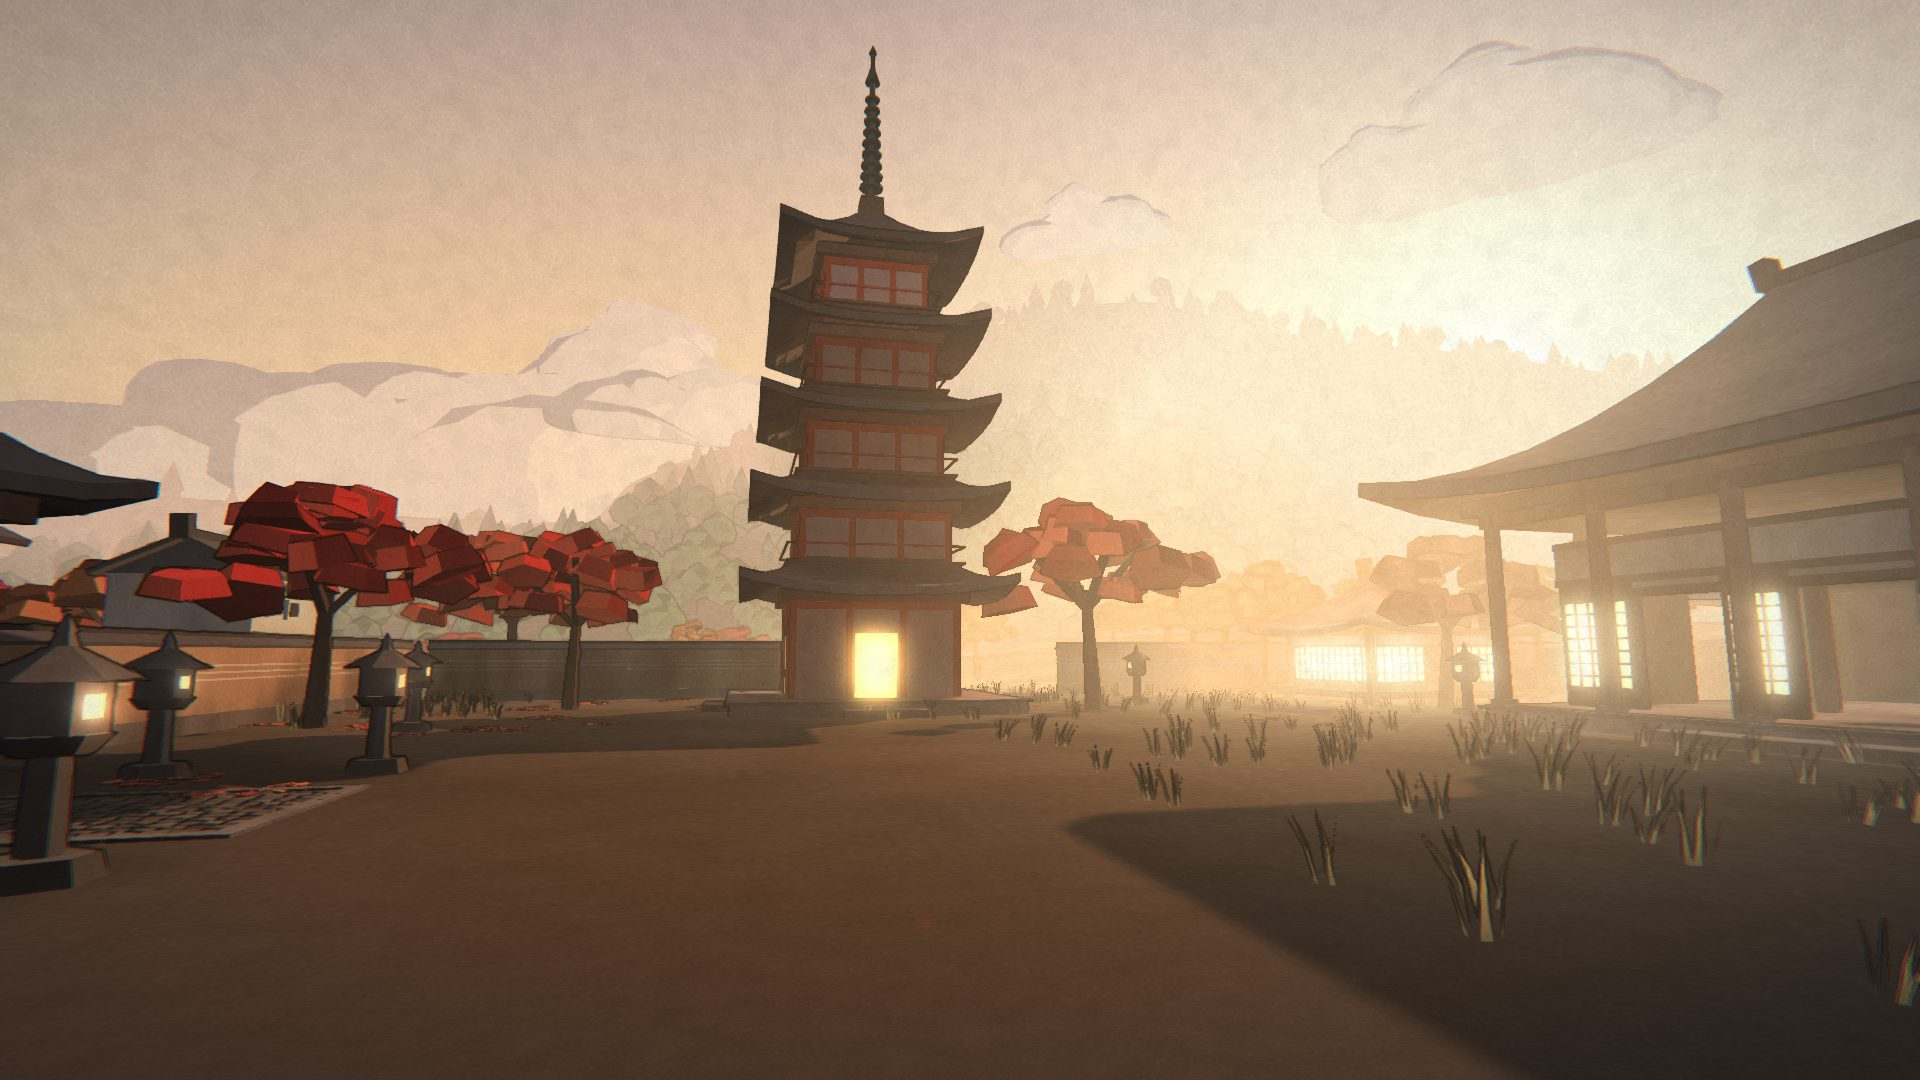
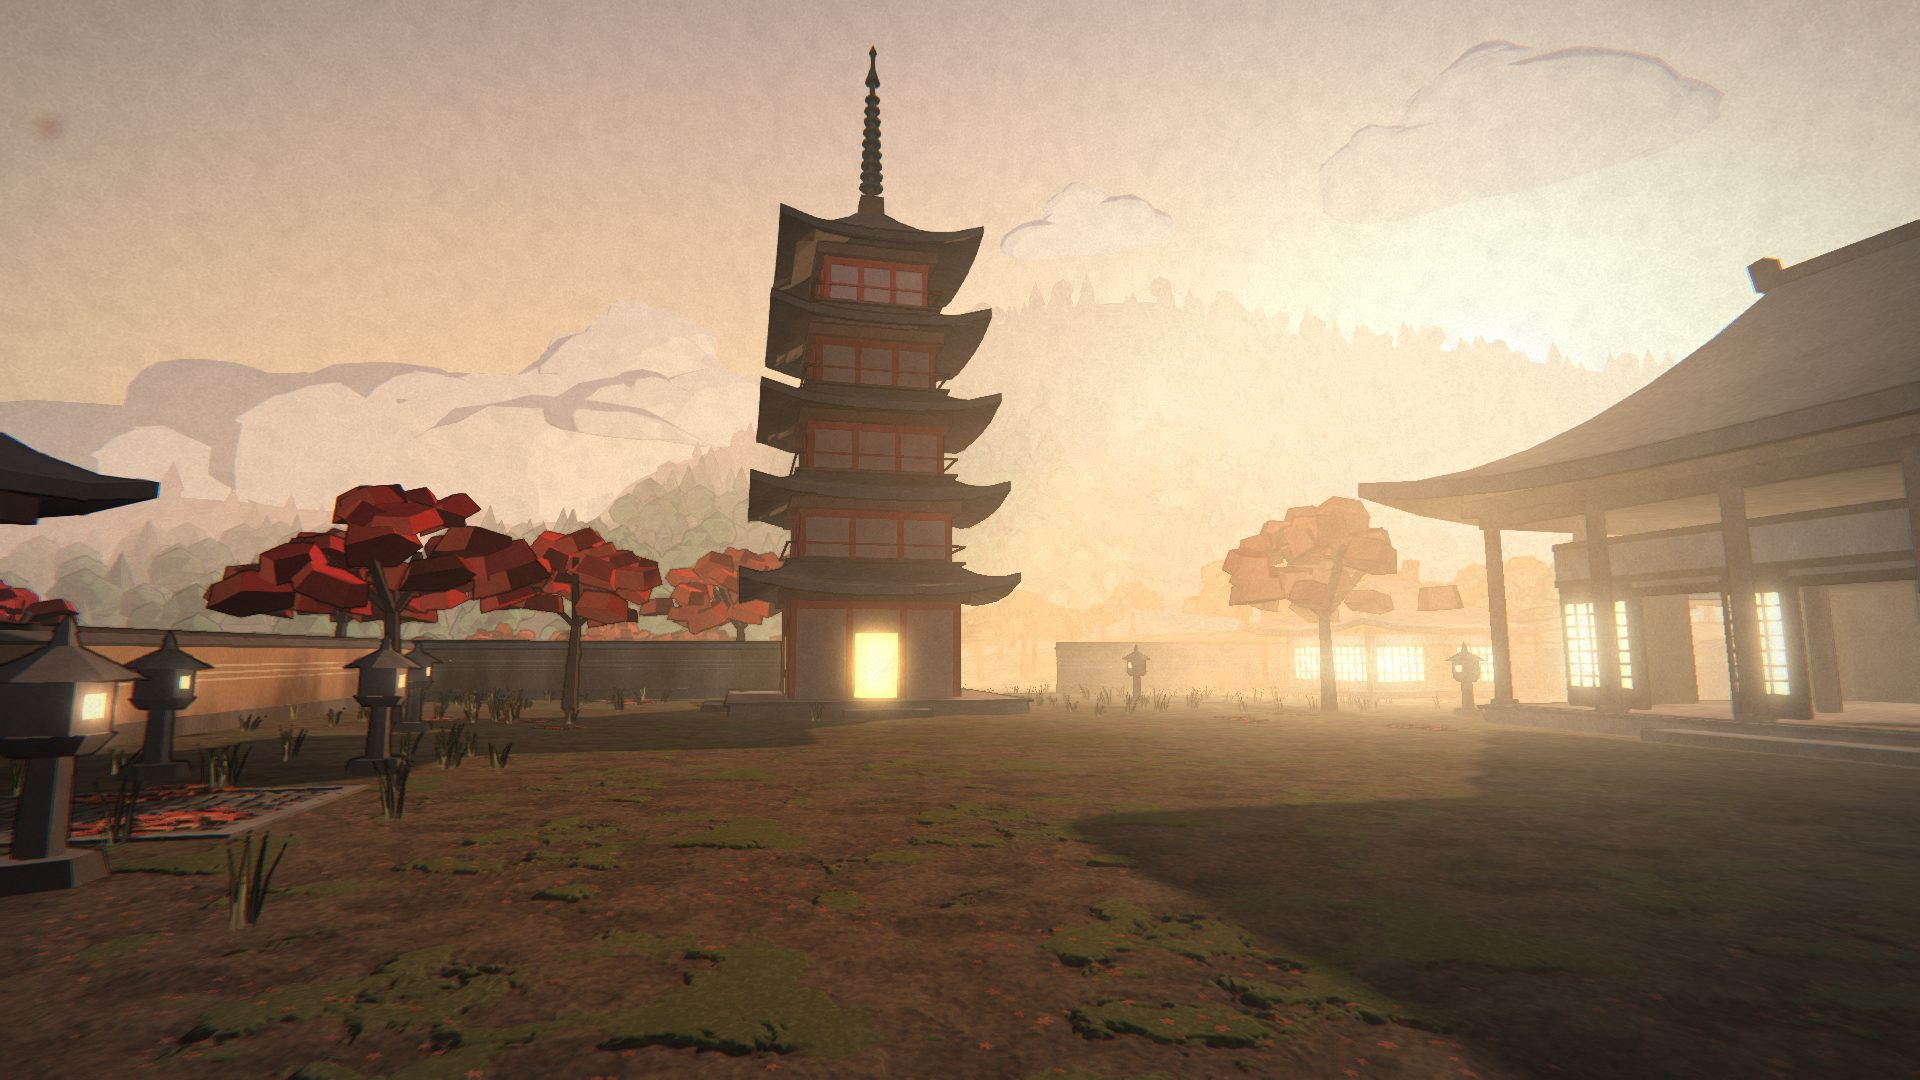
KURENAI'S GROUND IS FOREST LOAM: ROUNDED MOUNDS OF EARTH, MOSS PILLOWED OVER THE HOLLOWS AND LAST WEEK'S LEAVES GONE TO RUST IN DRIFTS, CARVED DEEP ENOUGH FOR THE PARALLAX AND THE RELIEF'S OWN SHADOW TO FIND. It was `flat` because every pattern in the roster carved plates that read as a cracked pan 
`loam` is a fifth floor pattern with no cell field in the soil at all: spread fBm bent by a smoothstep, so a crest is a rounded shoulder and a hollow a rounded dish — a steep-bottomed curve made every noise minimum a narrow pit the self-shadow filled black. Its ladder is three ladders end to end (five soil, two moss, two litter), each derived from the map's own `floorColor`, and `inBand` keeps a texel's grain inside its band. `bumpScale` 0.08 over a 5.5 m tile; at 0.025 the relief was a centimetre and read as painted. The menu photograph is re-taken.

Claude-Session: https://claude.ai/code/session_01LVphpSRXUvaM9HtyhSGMbb

diff --git a/src/world/textures.ts b/src/world/textures.ts
@@ -366,6 +366,31 @@ function shadeRgb(hex: string, mul: number, warm = 0): Rgb {
 }
 
 /**
+ * A tone derived from a base colour by scaling each channel on its own, then
+ * the whole by `mul`. `shadeRgb`'s warm axis trades red against blue and
+ * leaves green alone, which reaches rust and slate but never OLIVE — and a
+ * surface whose ladder has to hold moss as well as soil needs the green
+ * channel moved.
+ */
+function tintRgb(hex: string, mul: number, [kr, kg, kb]: Rgb): Rgb {
+  const [r, g, b] = rgbOf(hex);
+  const c = (v: number) => Math.round(Math.min(255, Math.max(0, v)));
+  return [c(r * kr * mul), c(g * kg * mul), c(b * kb * mul)];
+}
+
+/**
+ * A tone placed inside one BAND of a ladder that is several ladders laid end
+ * to end: `t` (0..1) picks a level among `count` starting at `first`, of
+ * `total` in the whole palette. What `paintAlbedo` does with it is exactly
+ * `first + floor(t * count)`, so a texel given a band can never posterize
+ * into its neighbour's — the grain that stipples a band's own boundaries
+ * stays inside it.
+ */
+function inBand(t: number, first: number, count: number, total: number): number {
+  return (first + clamp01(t) * count * 0.999) / total;
+}
+
+/**
  * The posterized ladder a tone field is quantized onto: `levels` flat tones
  * running from `lo` to `hi` times the base colour, warming (or cooling) as
  * they lighten.
@@ -586,7 +611,7 @@ export type RoadPatternId = Exclude<RoadSurface, "cobble">;
 interface RoadPattern {
   /**
    * Metres spanned by one texture repeat. Both are deliberately unequal to
-   * every floor pattern's (`floorSurfaces.ts`: 2.5, 4, 4.5 and 5) so a road can
+   * every floor pattern's (`floorSurfaces.ts`: 2.5, 4, 4.5, 5 and 5.5) so a road can
    * never come into phase with the ground it is lying on.
    */
   metersPerTile: number;
@@ -1156,6 +1181,182 @@ const FIELDS = {
     }
     return field;
   },
+
+  /**
+   * A woodland floor under maples: soft earth, moss in the damp, and the
+   * leaves that fell last week gone to rust in drifts across it.
+   *
+   * **There is no cell field in the SOIL, and that is the surface.** `dirt`
+   * is ground that has dried and pulled apart into plates, and under a low
+   * sun those plates are what a player sees — a cracked pan, which is not
+   * what the ground under a canopy is. Earth that is shaded, damp and
+   * covered every autumn stays soft: its relief is smooth undulation with a
+   * fine crumb over it, and nothing in it has an edge.
+   *
+   * **The ladder is three ladders end to end** (`inBand`): five levels of
+   * soil, two of moss, two of litter, each derived from the map's own
+   * `floorColor` — a surface still owns no colour, only which way each of its
+   * three materials moves away from the one it is given. So the tone written
+   * here is a band first and a level inside it second.
+   *
+   * The tile is 5.5 m, so the scales below read against ~1.07 cm per texel.
+   */
+  loam: (): Field => {
+    const field = blankField();
+    const { tone, height } = field;
+    const warpU = lattice(8, 0x10a1);
+    const warpV = lattice(8, 0x10a2);
+    // The undulation: six cells over the tile is a ~90 cm swell, three
+    // octaves down to ~23 cm. Plain fBm, not folded — folding is what creases
+    // soil into crumb with a groove round every lump, and this has none.
+    const swell = octaves(0x10a3, 3, 6);
+    // The CLODS: twelve cells over the tile, three octaves, lands them at 46,
+    // 23 and 11 cm — turned earth that has settled, which is the relief this
+    // surface is carved from. See where it is shaped, below, for why these
+    // are mounds and not plates.
+    const clods = octaves(0x10aa, 3, 12);
+    // The crumb over it, folded and quiet: 11 and 6 cm.
+    const crumb = octaves(0x10a4, 2, 48);
+    // Grain for the stipple, 4 and 2 cm.
+    const grit = octaves(0x10a5, 2, 128);
+    // Where the moss is: a ~80 cm field, so a cushion is a patch at the
+    // player's feet and a mottle across a court. At 1.4 m the cushions were
+    // a scatter of same-sized spots that advertised the tile from anywhere
+    // further than ten metres off: a tile cannot carry a feature much past a
+    // sixth of itself on open ground.
+    const mossField = octaves(0x10a6, 3, 7);
+    // The moss's own nap, 3 and 1.5 cm — velvet rather than crumb.
+    const nap = octaves(0x10a7, 2, 180);
+    // Leaves — the one place this file draws a SHAPE on purpose, because a
+    // leaf is an object and is meant to be read as one; the no-silhouettes
+    // rule is about soil that came back as pancakes, not about litter.
+    // Forty cells over the tile is a 14 cm cell, and a leaf fills
+    // most of one: a maple leaf is 8–12 cm across, and at this tile that is
+    // ~20 texels, which is enough for the five lobes to survive filtering at
+    // the player's feet. The jitter is held under 1 so neighbouring sites keep
+    // their distance and a leaf is not clipped by the next cell's border more
+    // than an overlap would clip it anyway.
+    const leaves = cells(40, 0x10a8, 0.7);
+    // Where they have DRIFTED: leaves on a floor are wind-sorted into
+    // windrows and pockets, and an even scatter is the one arrangement no
+    // autumn produces — the argument `dirt` makes about its grit.
+    const drift = octaves(0x10a9, 2, 5);
+
+    for (let y = 0; y < SIZE; y++) {
+      const v = y / SIZE;
+      for (let x = 0; x < SIZE; x++) {
+        const u = x / SIZE;
+        const i = y * SIZE + x;
+
+        const wu = u + (latticeAt(warpU, u, v) - 0.5) * 0.05;
+        const wv = v + (latticeAt(warpV, u, v) - 0.5) * 0.05;
+
+        const soft = spread(fbmAt(swell, wu, wv), 1.5);
+        const lump = billowAt(crumb, wu, wv);
+        const g = fbmAt(grit, u, v);
+
+        // **The soil is MOUNDS, and their shape is the whole difference from
+        // `dirt`.** A clod field is gently spread fBm bent by a smoothstep,
+        // which has no slope at EITHER end: a crest is a rounded shoulder and
+        // a hollow is a rounded dish between two of them — lumps a low sun
+        // lights on one side and shades on the other, with nothing in it that
+        // runs on as a groove. `dirt` gets the same read out of tilted PLATES,
+        // and a plate has an edge; a mound does not, which is what keeps this
+        // earth rather than a dried pan.
+        //
+        // **The dish is load-bearing.** Bent by `1 - (1 - m)^2` instead —
+        // round on top, steep at the bottom — and spread hard enough to clamp,
+        // every minimum of the noise became a narrow flat-floored pit, and the
+        // relief's own shadow and cavity filled each one black: a lawn of
+        // holes. A hollow may be deep; it may not be narrow at the bottom.
+        //
+        // The range is spent deliberately all the same. The relief is carved
+        // as a DEPTH (`CONFIG.graphics.relief`), so a field held in a narrow
+        // band in the middle — which this first was — is a centimetre of
+        // parallax at any `bumpScale`: the crests here reach ~0.85, the moss's
+        // crowns above them ~0.9, and the hollows bottom out near 0.3.
+        const m = spread(fbmAt(clods, wu, wv), 1.45);
+        const mound = m * m * (3 - 2 * m);
+        const bed = 0.3 + mound * 0.52 + (soft - 0.5) * 0.12;
+        let h = bed + (lump - 0.5) * 0.09 + (g - 0.5) * 0.04;
+
+        // MOSS holds the damp, so it favours the hollows: the mask is biased
+        // by how low the swell is. Its edge is dithered by the grain, which is
+        // what turns the band boundary into a stipple rather than a contour.
+        // The crumb frays the edge, so no two cushions share a silhouette.
+        const damp =
+          fbmAt(mossField, wu, wv) + (0.5 - soft) * 0.22 + (lump - 0.5) * 0.14;
+        const mossy = damp + (g - 0.5) * 0.06 > 0.6;
+        // The cushion rises softly over its last few centimetres rather than
+        // standing up as a step, which carved would read as a kerb.
+        //
+        // A cushion is a PILLOW over the clods rather than a coat on them: it
+        // fills the hollows and rounds over the crests, crowning just over the
+        // highest soil so the moss is the top of the relief wherever it grows
+        // and its edge is a soft shoulder the self-shadow can find.
+        const cushion = smoothstep(0.55, 0.68, damp);
+        const velvet = fbmAt(nap, u, v);
+        const pillow = Math.max(
+          0.8 + (soft - 0.5) * 0.14 + (velvet - 0.5) * 0.06,
+          bed + 0.06,
+        );
+        h = h * (1 - cushion) + pillow * cushion;
+
+        // A LEAF: a five-lobed star about its site, turned by its own roll.
+        // Only a share of the cells carry one, set by the drift — a quarter in
+        // a windrow, almost none on the open floor.
+        cellsAt(leaves, u, v, hitB);
+        const drifted = smoothstep(0.42, 0.7, fbmAt(drift, u, v));
+        const keep = 0.996 - drifted * 0.24;
+        let leaf = 0;
+        let leafLevel = 0;
+        if (hitB.roll > keep) {
+          // The one roll is spent three ways; the fractions of its multiples
+          // are as good as three draws for a pattern nobody inspects that
+          // closely, and they stay tied to the cell by construction.
+          const r2 = (hitB.roll * 7.31) % 1;
+          const r3 = (hitB.roll * 13.7) % 1;
+          const turn = r2 * Math.PI * 2;
+          const ang = Math.atan2(hitB.dy, hitB.dx) - turn;
+          // Pointed lobes with deep sinuses between them: a rounded lobe
+          // reads as a PETAL, and a floor of those is a flower bed.
+          const lobes = 0.5 + 0.5 * Math.abs(Math.cos(2.5 * ang)) ** 1.6;
+          const reach = (0.28 + r3 * 0.18) * lobes;
+          leaf = smoothstep(reach, reach - 0.06, hitB.f1);
+          leafLevel = (hitB.roll * 29.3) % 1;
+          // A leaf lies ON the soil: it covers the crumb under it and stands
+          // no higher than the bed does, so it drops no shadow speck.
+          const under = bed * (1 - cushion) + pillow * cushion;
+          h = h * (1 - leaf) + (under + 0.02) * leaf;
+        }
+
+        height[i] = clamp01(h);
+
+        if (leaf > 0.5) {
+          tone[i] = inBand(leafLevel + (g - 0.5) * 0.3, 7, 2, 9);
+        } else if (mossy) {
+          tone[i] = inBand(
+            0.5 + (velvet - 0.5) * 1.1 + (soft - 0.5) * 0.4,
+            5,
+            2,
+            9,
+          );
+        } else {
+          // The soil keeps `dirt`'s ordering for `dirt`'s reason: the grain
+          // is the loudest term, and the mound only tips it — dark in the
+          // hollows, dry on the crowns — so damp and dry read as a tendency
+          // rather than as blotches.
+          tone[i] = inBand(
+            0.46 + (mound - 0.5) * 0.36 + (lump - 0.5) * 0.2 + (g - 0.5) * 0.7,
+            0,
+            5,
+            9,
+          );
+        }
+      }
+    }
+    return field;
+  },
 } as const;
 
 /**
@@ -1186,6 +1387,15 @@ const PALETTES: Record<FloorPatternId, (base: string) => Rgb[]> = {
   gravel: (base) => ramp(base, 6, 0.58, 1.3),
   sand: (base) => ramp(base, 5, 0.86, 1.22, 0, 0.02),
   turf: (base) => ramp(base, 6, 0.68, 1.24, 0.01, -0.05),
+  // Soil, then moss (green up, blue down: olive, not teal), then litter
+  // (red up, green and blue down: rust). Nine levels, banded by the field.
+  loam: (base) => [
+    ...ramp(base, 5, 0.74, 1.2, -0.01, 0.025),
+    tintRgb(base, 0.9, [0.94, 1.18, 0.72]),
+    tintRgb(base, 1.04, [0.94, 1.18, 0.72]),
+    tintRgb(base, 0.92, [1.6, 0.96, 0.72]),
+    tintRgb(base, 1.08, [1.6, 0.96, 0.72]),
+  ],
 };
 
 /* ------------------------------------------------------------------------ *

diff --git a/src/world/kurenai/environment.ts b/src/world/kurenai/environment.ts
@@ -57,13 +57,15 @@ export const KurenaiEnvironment: EnvironmentSpec = {
    */
   floorColor: "#3f3526",
   /**
-   * FLAT — the plain cel colour with the world-space drift over it — and it is
-   * the only one of the five that is this place. `dirt` and `turf` both carve
-   * plates, which under a raking sun read as a cracked desert pan, and `sand`
-   * is dunes; the reference frame's ground is soft brown earth that carries
-   * its detail in what lies ON it (the leaf drifts, the stones, the paths).
+   * LOAM — soft earth under a canopy, moss in the hollows and last week's
+   * leaves gone to rust in drifts — and it is the one surface in the roster
+   * made for this place. `dirt` and `turf` both carve plates, which under a
+   * raking sun read as a cracked desert pan, and `sand` is dunes; `flat` was
+   * honest but read as one dead brown sheet between the leaf drifts. Loam's
+   * soil has no cell field in it at all, so the ground stays soft and the
+   * bright red on it is still the drifts' (`leafLitter`), not the texture's.
    */
-  floorSurface: "flat",
+  floorSurface: "loam",
   /**
    * The mountains: cedar-dark slopes a long way into a peach haze. Pulled
    * toward `fogColor` already, because at this range a saturated hill fights

diff --git a/src/world/floorSurfaces.ts b/src/world/floorSurfaces.ts
@@ -67,6 +67,11 @@ const SURFACES: Record<FloorPatternId, FloorSurface> = {
   gravel: { label: "gravel", metersPerTile: 2.5, bumpScale: 0.03 },
   sand: { label: "sand", metersPerTile: 5, bumpScale: 0.015 },
   turf: { label: "turf", metersPerTile: 4.5, bumpScale: 0.03 },
+  // Settled clods ~46 cm across, carved ~4 cm deep between their crowns, and
+  // moss pillowed over them. Deeper than `dirt` because a mound spends its
+  // depth on a slope where a plate spends it on a step: at 0.025 this was a
+  // centimetre of parallax and read as a painted sheet.
+  loam: { label: "forest loam", metersPerTile: 5.5, bumpScale: 0.08 },
 };
 
 /** What a map may state for its floor. `flat` is the shipped, untextured one. */

diff --git a/docs/world.md b/docs/world.md
@@ -263,8 +263,13 @@ engine. Seven things came out of building it and all of them outlive it:
   `npm run parity` and a live round all pass with it, so a blocking prop may be.
 - **A floor surface is judged under the map's own sun.** At 14.5 degrees
   `dirt` and `turf` both carve plates that read as a cracked desert pan, and
-  `sand` reads as dunes; a valley whose ground carries its detail in what lies
-  ON it (the drifts, the stones, the paths) is `flat`.
+  `sand` reads as dunes. Kurenai was `flat` for that reason and read as one
+  dead brown sheet, so it got a pattern of its own — `loam`, rounded mounds
+  of earth with NO cell field in the soil, moss pillowed over the hollows and
+  decayed leaves in drifts — rather than a retune of one that carves. It
+  carves deep all the same (`bumpScale` 0.08): a mound spends its depth on a
+  slope where a plate spends it on a step, and at 0.025 it read as a painted
+  sheet.
 - **A plot levelled at its natural height is only honest on gentle ground.**
   A farm's district flattened on the temple mountain's flank made a skirt at a
   0.6 gradient, and the fix was to move the mountain into the corner so the
@@ -542,7 +547,7 @@ otherwise be born with the shipped night sheen and never revisited.
 **What the floor is MADE of is a second per-map choice, and it owns no colour.**
 `EnvironmentSpec.floorSurface` names a pattern out of `src/world/floorSurfaces.ts`
 — `flat` (the default, and the plain cel colour the floor has always been), `dirt`,
-`gravel`, `sand` or `turf` — and every tone that pattern paints is *derived* from
+`gravel`, `sand`, `turf` or `loam` — and every tone that pattern paints is *derived* from
 `floorColor` by `ramp`, which quantizes the pattern's tone field onto a handful of
 flat multiples of it. That is the rule holding the two apart: `floorColor` is
 already what the untextured floor is, what `ridgeScreeColor` is asked to melt into
@@ -796,8 +801,8 @@ it texel for texel, a tile and a relief:
 
 Three of those rows are load-bearing beyond their own map.
 
-- **A road may not share a tile size with a floor pattern** (2.5, 4, 4.5 and
-  5 m — `floorSurfaces.ts`). Every ground texture in the tree is sampled at
+- **A road may not share a tile size with a floor pattern** (2.5, 4, 4.5, 5
+  and 5.5 m — `floorSurfaces.ts`). Every ground texture in the tree is sampled at
   `vPosW.xz`, so a track drawn with the floor's own field at the floor's own
   scale is in PHASE with the soil it crosses, grain for grain, and reads as a
   tint laid over the ground rather than as a surface laid on it. Hollowmere and
